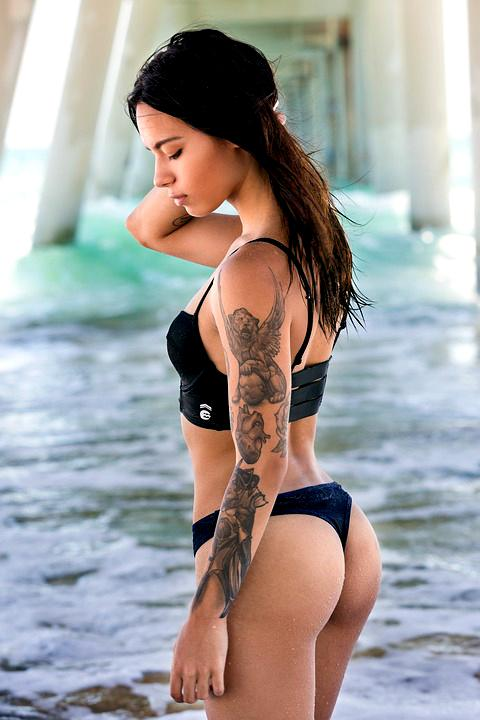
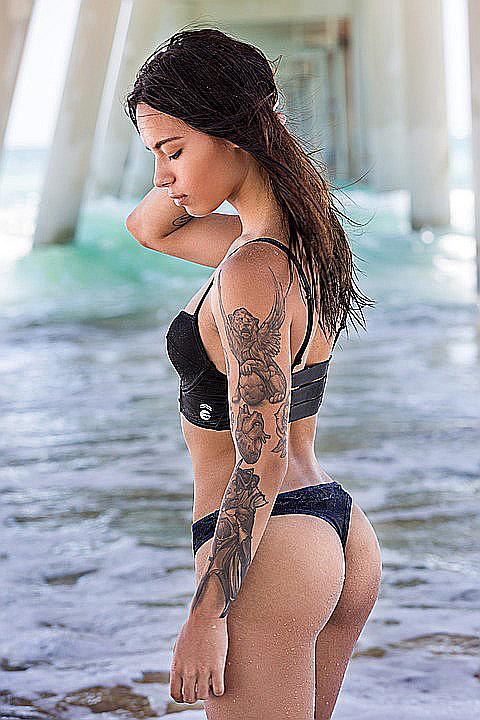
Added Edge Enhancer

diff --git a/image_processing/imageEdgeEnhancer.py b/image_processing/imageEdgeEnhancer.py
@@ -1,0 +1,9 @@
+from PIL import Image, ImageEnhance
+from PIL import ImageOps
+from PIL import ImageFilter
+
+image = Image.open("./nsfw1.jpg")
+# image.show()
+finalImage = image.filter(ImageFilter.EDGE_ENHANCE)
+finalImage.save('enhanced.jpg')
+# ImageOps.autocontrast(image,cutoff=5).show()
